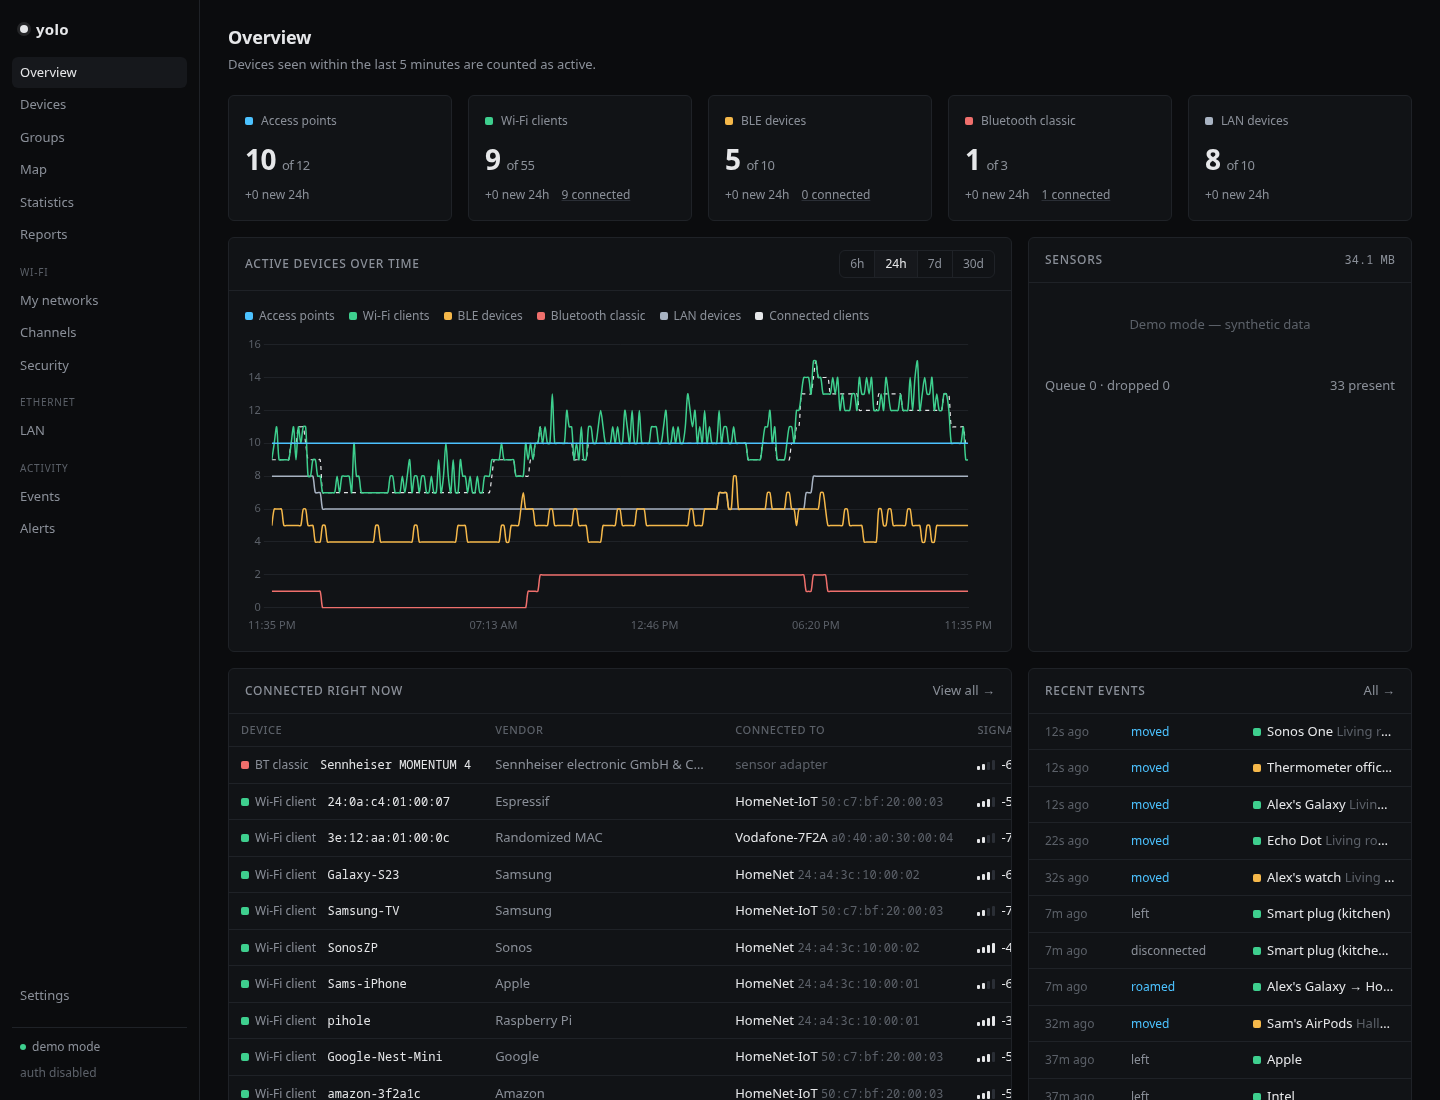
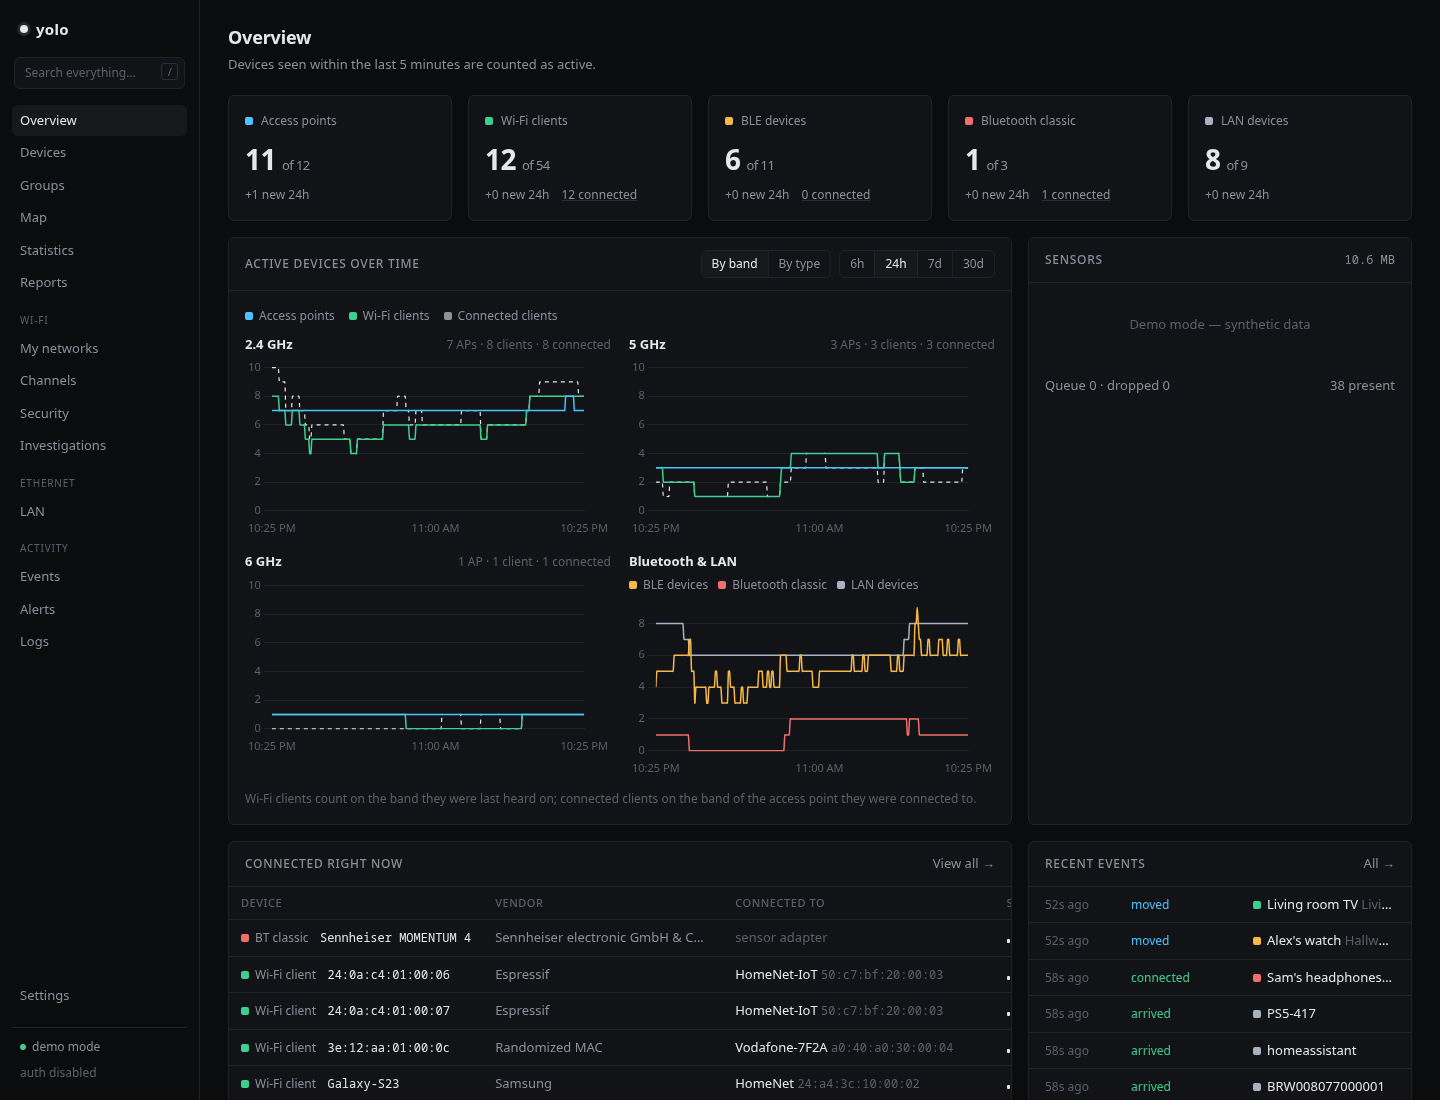
Polish per-band timeline legend; docs and screenshot
Wi-Fi legend above the band grid, Bluetooth & LAN chart gets its own
legend, explanatory note moved under the grid, singular AP/client counts.
README Overview section and overview screenshot updated.

diff --git a/yolo/static/app.js b/yolo/static/app.js
@@ -322,15 +322,17 @@ async function viewOverview() {
     }
     // By band: one small chart per Wi-Fi band on a shared scale, plus Bluetooth & LAN (no band).
     document.getElementById('tl-legend').innerHTML = sw(KINDS.ap.color, 'Access points') + sw(KINDS.wifi_client.color, 'Wi-Fi clients')
-      + sw(TEXT, 'Connected clients', true) + '<span class="faint">· clients count on the band they were last heard on; connected clients on the band of their access point</span>';
+      + sw(TEXT, 'Connected clients', true);
     const bands = t.bands || {};
     const ymax = Math.max(1, ...BAND_PANELS.flatMap(([b]) => ['ap', 'wifi_client', 'connected'].flatMap(k => (bands[b] || {})[k] || [0])));
     const now = (b, k) => { const a = (bands[b] || {})[k] || []; return a.length ? a[a.length - 1] : 0; };
     box.innerHTML = `<div class="band-grid">${BAND_PANELS.map(([b, label]) => `<div class="band-cell"><div class="band-head"><b>${label}</b>
-        <span class="faint small-text">${num(now(b, 'ap'))} APs · ${num(now(b, 'wifi_client'))} clients · ${num(now(b, 'connected'))} connected</span></div>
+        <span class="faint small-text">${num(now(b, 'ap'))} AP${now(b, 'ap') === 1 ? '' : 's'} · ${num(now(b, 'wifi_client'))} client${now(b, 'wifi_client') === 1 ? '' : 's'} · ${num(now(b, 'connected'))} connected</span></div>
         <div class="chart-box short"><canvas id="tl-${b.replace('.', '')}"></canvas></div></div>`).join('')}
-      <div class="band-cell"><div class="band-head"><b>Bluetooth &amp; LAN</b><span class="faint small-text">no Wi-Fi band</span></div>
-        <div class="chart-box short"><canvas id="tl-other"></canvas></div></div></div>`;
+      <div class="band-cell"><div class="band-head"><b>Bluetooth &amp; LAN</b>
+        <span class="legend small-text">${['ble', 'bt_classic', 'lan'].map(k => sw(KINDS[k].color, KINDS[k].label)).join('')}</span></div>
+        <div class="chart-box short"><canvas id="tl-other"></canvas></div></div></div>
+      <p class="faint small-text band-note">Wi-Fi clients count on the band they were last heard on; connected clients on the band of the access point they were connected to.</p>`;
     BAND_PANELS.forEach(([b]) => {
       const v = bands[b] || {};
       chart(document.getElementById(`tl-${b.replace('.', '')}`), { type: 'line', data: { datasets: [
@@ -339,7 +341,6 @@ async function viewOverview() {
     });
     chart(document.getElementById('tl-other'), { type: 'line', data: { datasets: ['ble', 'bt_classic', 'lan'].map(k =>
       line(KINDS[k].label, xy(t.series[k]), KINDS[k].color)) }, options: opts(null, true) });
-    document.getElementById('tl-legend').innerHTML += ['ble', 'bt_classic', 'lan'].map(k => sw(KINDS[k].color, KINDS[k].label)).join('');
   }
 
   await Promise.all([loadSummary(), loadSensors(), loadTimeline(), loadConnected(), pollStatus()]);

diff --git a/yolo/static/style.css b/yolo/static/style.css
@@ -391,5 +391,7 @@ mark { background: rgba(245,184,74,.22); color: inherit; border-radius: 2px; pad
 /* overview: active devices per band */
 .band-grid { display: grid; grid-template-columns: repeat(2, minmax(0, 1fr)); gap: 14px 18px; }
 .band-cell { min-width: 0; }
-.band-head { display: flex; justify-content: space-between; align-items: baseline; gap: 8px; margin-bottom: 4px; }
+.band-head { display: flex; justify-content: space-between; align-items: baseline; flex-wrap: wrap; gap: 4px 8px; margin-bottom: 4px; }
+.band-head .legend { gap: 10px; }
+.band-note { margin: 12px 0 0; }
 @media (max-width: 760px) { .band-grid { grid-template-columns: 1fr; } }

diff --git a/README.md b/README.md
@@ -483,7 +483,7 @@ yolo works out what each device is purely from what it broadcasts. Nothing is se
   - DNS lookups, events, alerts, security findings and sensors
 
   Results appear as you type; use the arrow keys and Enter to open one, or press Enter for the full results page with a filter per record type.
-- **Overview:** active vs. total devices per type, active devices and connected clients over time (6 h to 30 d), currently connected clients with the network they're on, sensor health (packets/s, current channel, errors), and recent events. Every card and row links deeper.
+- **Overview:** active vs. total devices per type, active devices and connected clients over time (6 h to 30 d) — *By band* shows 2.4, 5 and 6 GHz side by side on the same scale (access points, active and connected clients per band, plus Bluetooth & LAN), *By type* shows all device types in one chart, currently connected clients with the network they're on, sensor health (packets/s, current channel, errors), and recent events. Every card and row links deeper.
 - **Devices:** a searchable, sortable list showing what each device was identified as. Filter by radio type, device type, recency or band (2.4 / 5 / 6 GHz), and hide randomized MACs. Drill-downs add filters for brand, OS, Wi-Fi generation, age and probe fingerprint. Filter chips from drill-downs (SSID, channel, probed SSID, BSSID, vendor) can be removed individually. CSV export.
 - **Device detail** (click any device):
   - key facts, total time present, visits, average and longest visit, time connected
